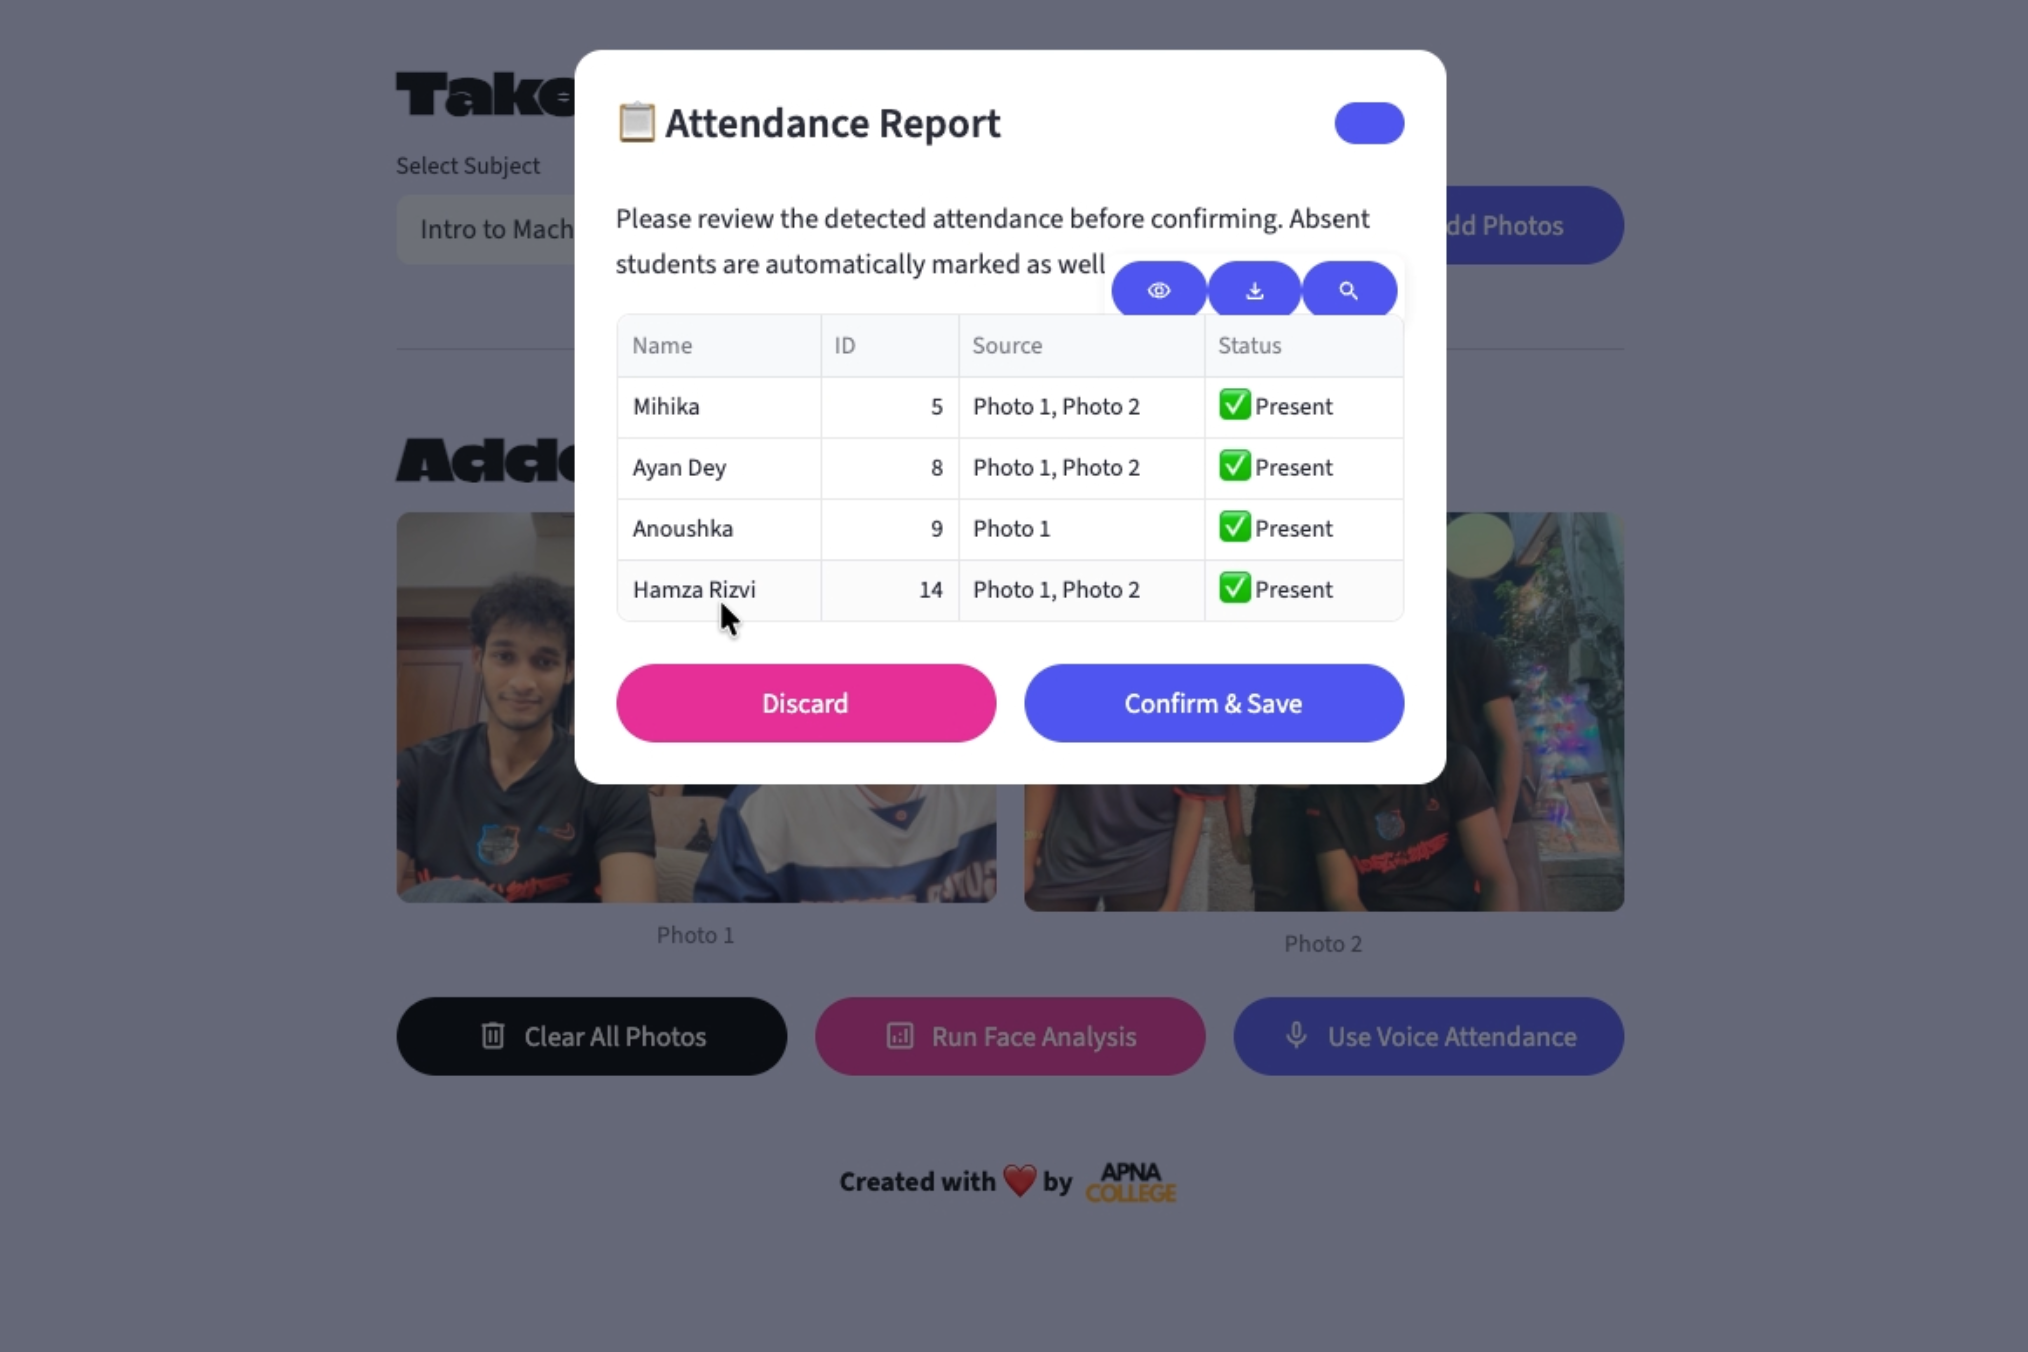
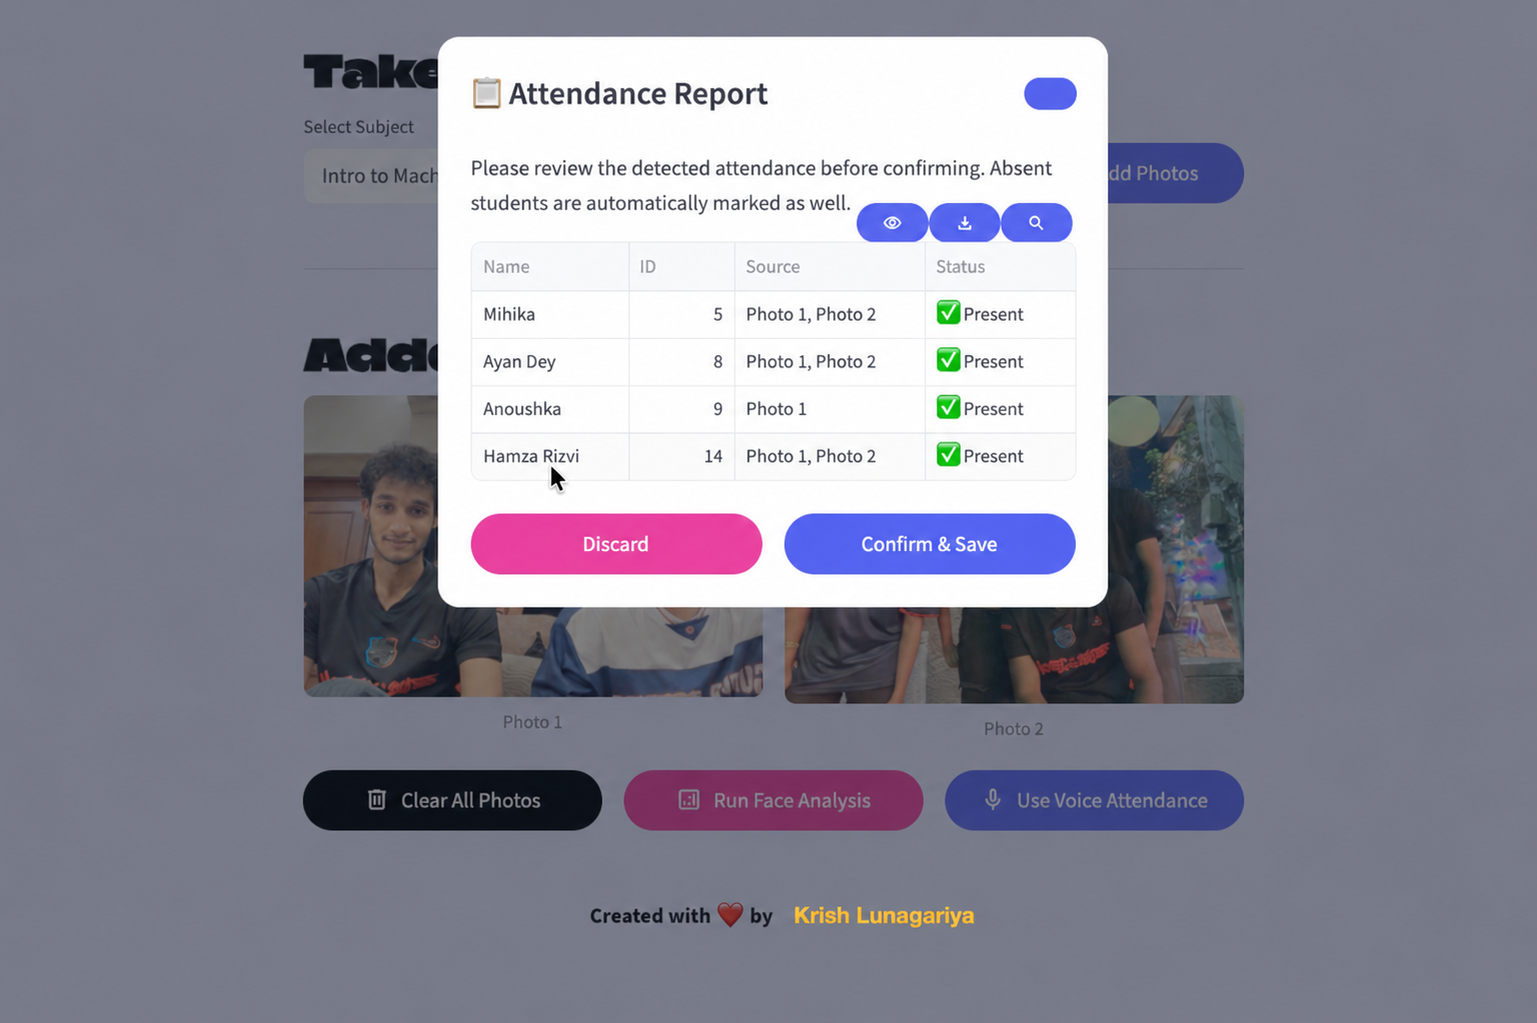
Fix Vercel Flask deployment

diff --git a/templates/index.html b/templates/index.html
@@ -40,7 +40,7 @@
             speed, accuracy, and security.</p>
 
         <div class="hero-actions">
-            <a href="https://snapclass.streamlit.app/" class="btn-cta">Start AI Attendance <svg width="24" height="24" viewBox="0 0 24 24" fill="none"
+            <a href="https://snap-classroom.streamlit.app/" class="btn-cta">Start AI Attendance <svg width="24" height="24" viewBox="0 0 24 24" fill="none"
                     stroke="currentColor" stroke-width="3">
                     <path d="M9 5l7 7-7 7" />
                 </svg></a>
